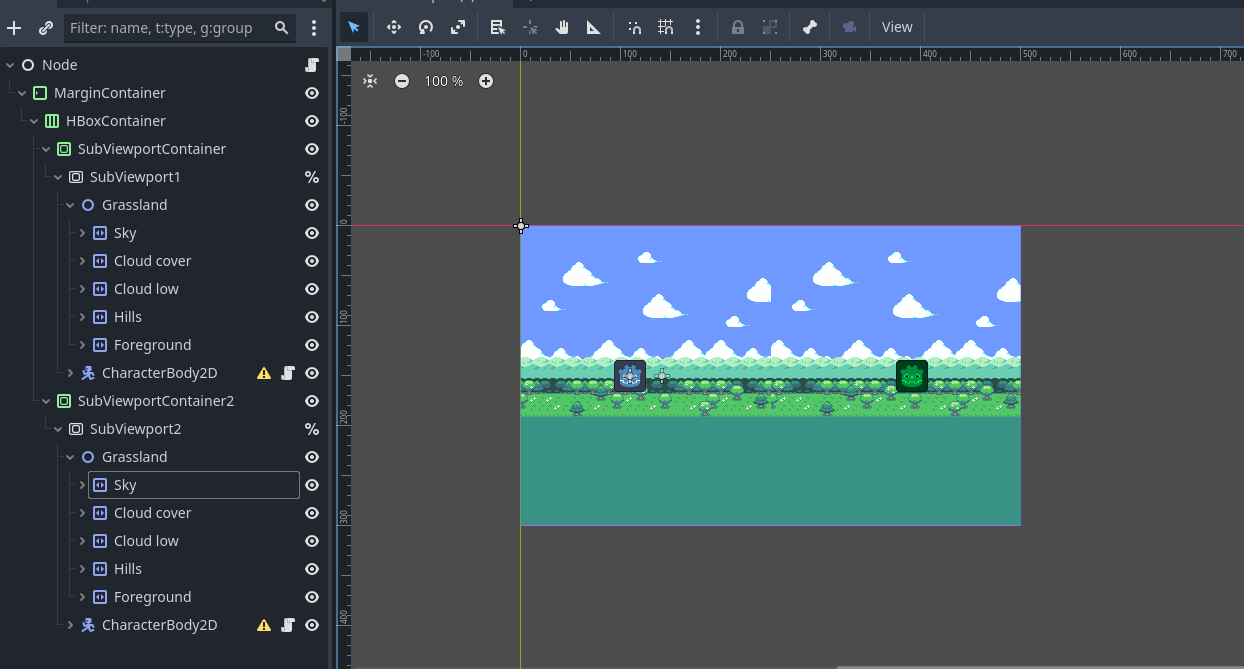
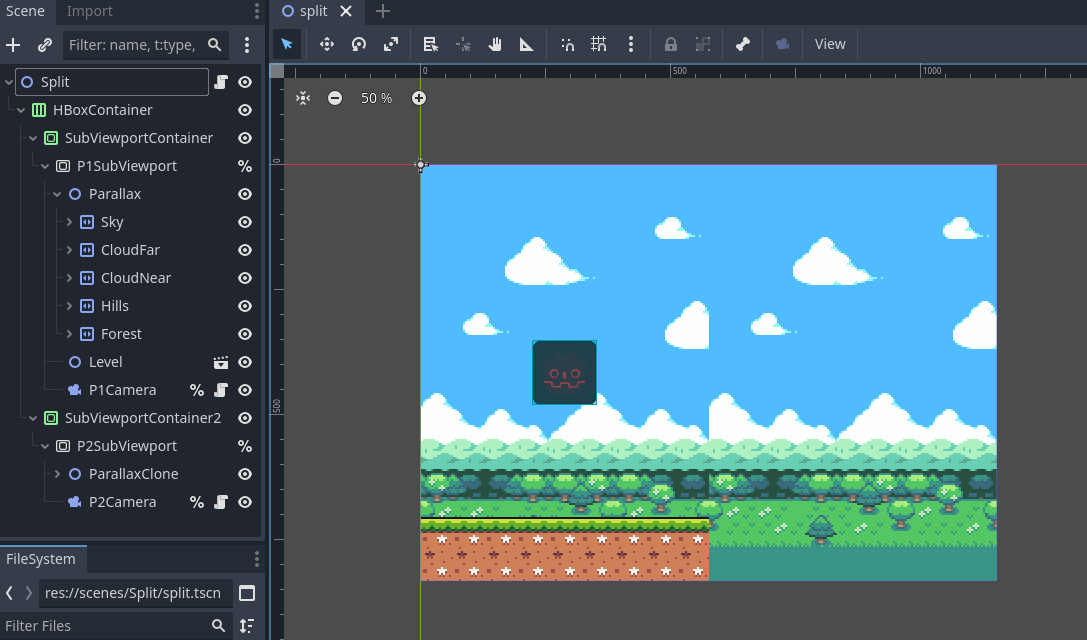
Update split screen details

diff --git a/tutorials/2d/2d_parallax.rst b/tutorials/2d/2d_parallax.rst
@@ -201,21 +201,23 @@ The parallax effect fakes a perspective by moving the positions of different tex
 understandably problematic if you have multiple cameras, because your textures can't be in two places at once!
 
 This is still achievable by cloning the parallax nodes into the second (or third or fourth)
-:ref:`SubViewport<class_subviewport>`. Here's how it looks for a two player game:
+:ref:`SubViewport<class_subviewport>`. Here's how a setup looks for a two player game:
 
 .. image:: img/2d_parallax_splitscreen.webp
 
-Of course, now both backgrounds show in both SubViewports. What we want is for some nodes to be visible in one viewport
-but not another. While technically possible, this is not a feature officially supported by Godot at the moment. There is
-currently a proposal to make this much simpler, so please stay tuned.
+Of course, now both backgrounds show in both SubViewports. What we want is for each parallax to only show in their
+corresponding viewport. We can achieve this by doing the following:
 
-As a workaround, you can do the following:
+- Leave all parallax nodes at their default :ref:`visibility_layer<class_canvasitem_property_visibility_layer>` of 1.
+- Set the first SubViewport's :ref:`canvas_cull_mask<class_viewport_property_canvas_cull_mask>` to only layers 1 and 2.
+- Do the same for the second SubViewport but use layers 1 and 3.
+- Give your parallax nodes in the first SubViewport a common parent and set its :ref:`visibility_layer<class_canvasitem_property_visibility_layer>` to 2.
+- Do the same for the second SubViewport's parallax nodes, but use a layer of 3.
 
-- Set the first SubViewport's :ref:`canvas_cull_mask<class_viewport_property_canvas_cull_mask>` to only layer 1, so it displays all nodes with a :ref:`visibility_layer<class_canvasitem_property_visibility_layer>` of layer 1.
-- Set the second SubViewport's :ref:`canvas_cull_mask<class_viewport_property_canvas_cull_mask>` to only layer 2, so it displays all nodes with a :ref:`visibility_layer<class_canvasitem_property_visibility_layer>` of layer 2.
-- Set the :ref:`visibility_layer<class_canvasitem_property_visibility_layer>` of every node you want to display in both viewports to both layers 1 and 2.
-- Set the :ref:`visibility_layer<class_canvasitem_property_visibility_layer>` of the :ref:`Parallax2D<class_parallax2d>` node and all its descendants in the first :ref:`SubViewport<class_subviewport>` to layer 1.
-- Set the :ref:`visibility_layer<class_canvasitem_property_visibility_layer>` of the :ref:`Parallax2D<class_parallax2d>` node and all its descendants in the second :ref:`SubViewport<class_subviewport>` to layer 2.
+How does this work? If a canvas item has a :ref:`visibility_layer<class_canvasitem_property_visibility_layer>` that
+doesn't match the SubViewport's :ref:`canvas_cull_mask<class_viewport_property_canvas_cull_mask>`, it will hide all
+children, even if they do. We use this to our advantage, letting the SubViewports cut off rendering of parallax nodes
+whose parent doesn't have a supported :ref:`visibility_layer<class_canvasitem_property_visibility_layer>`.
 
 Previewing in the editor
 ------------------------
